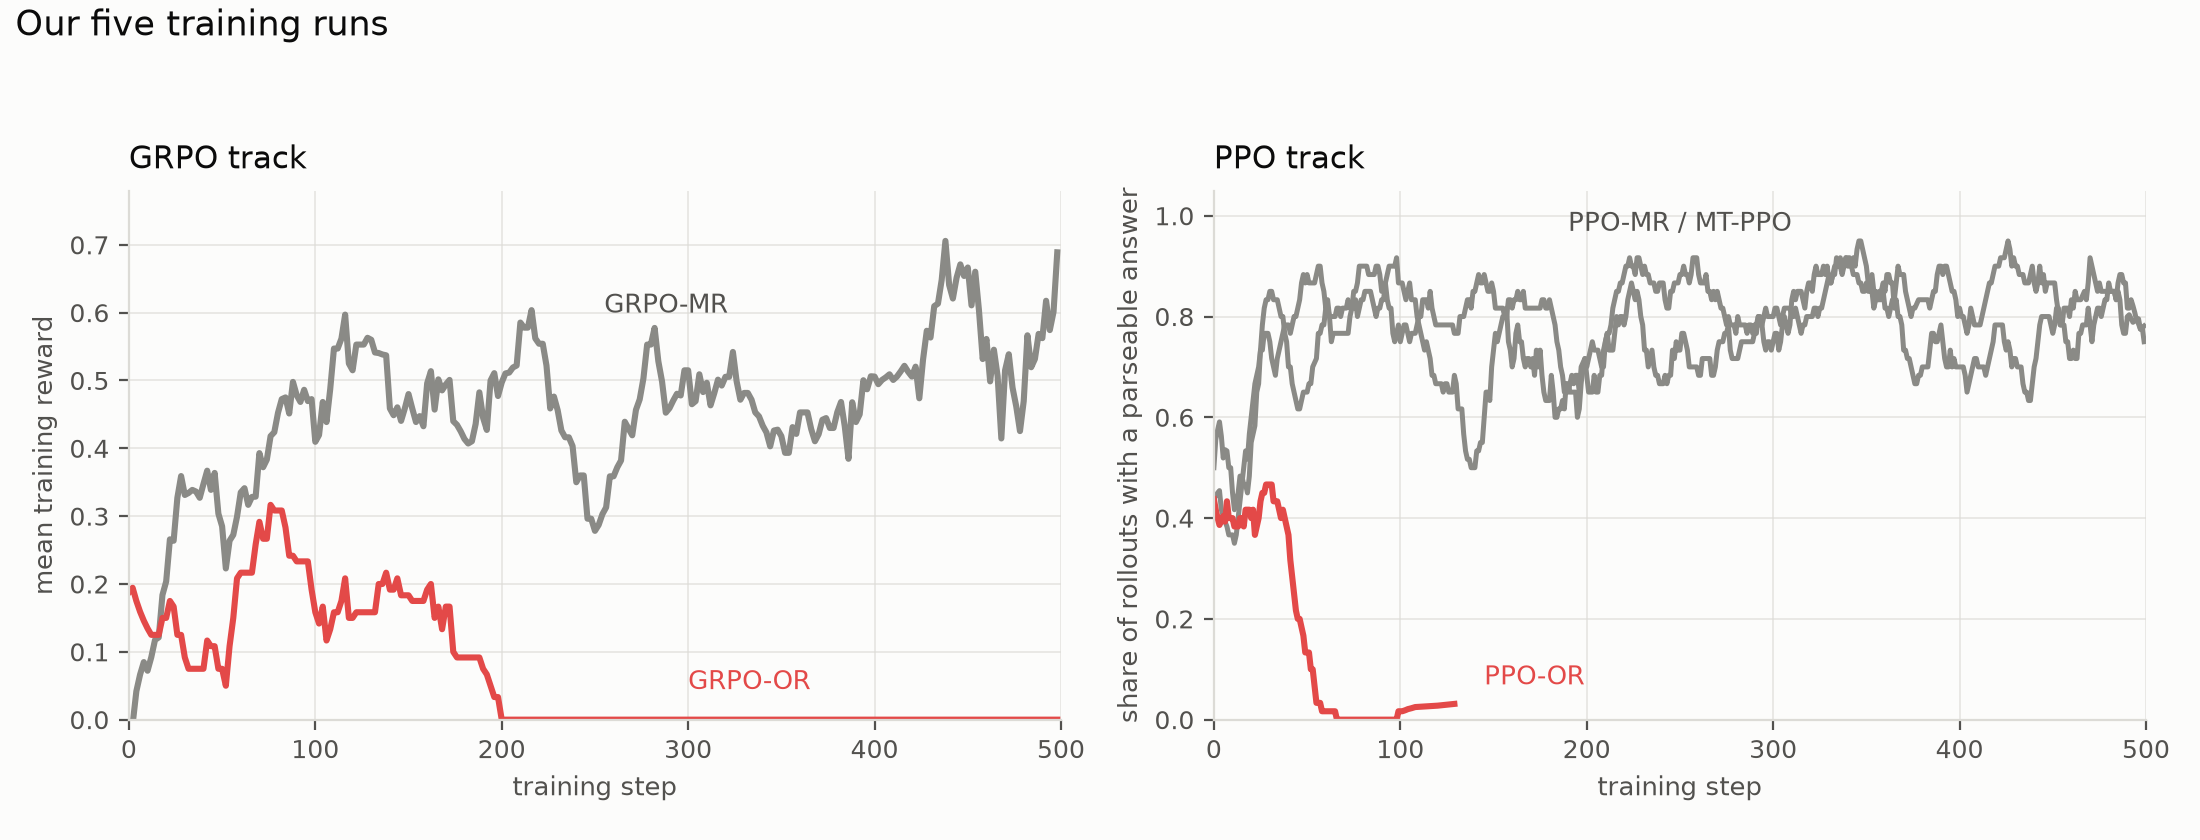
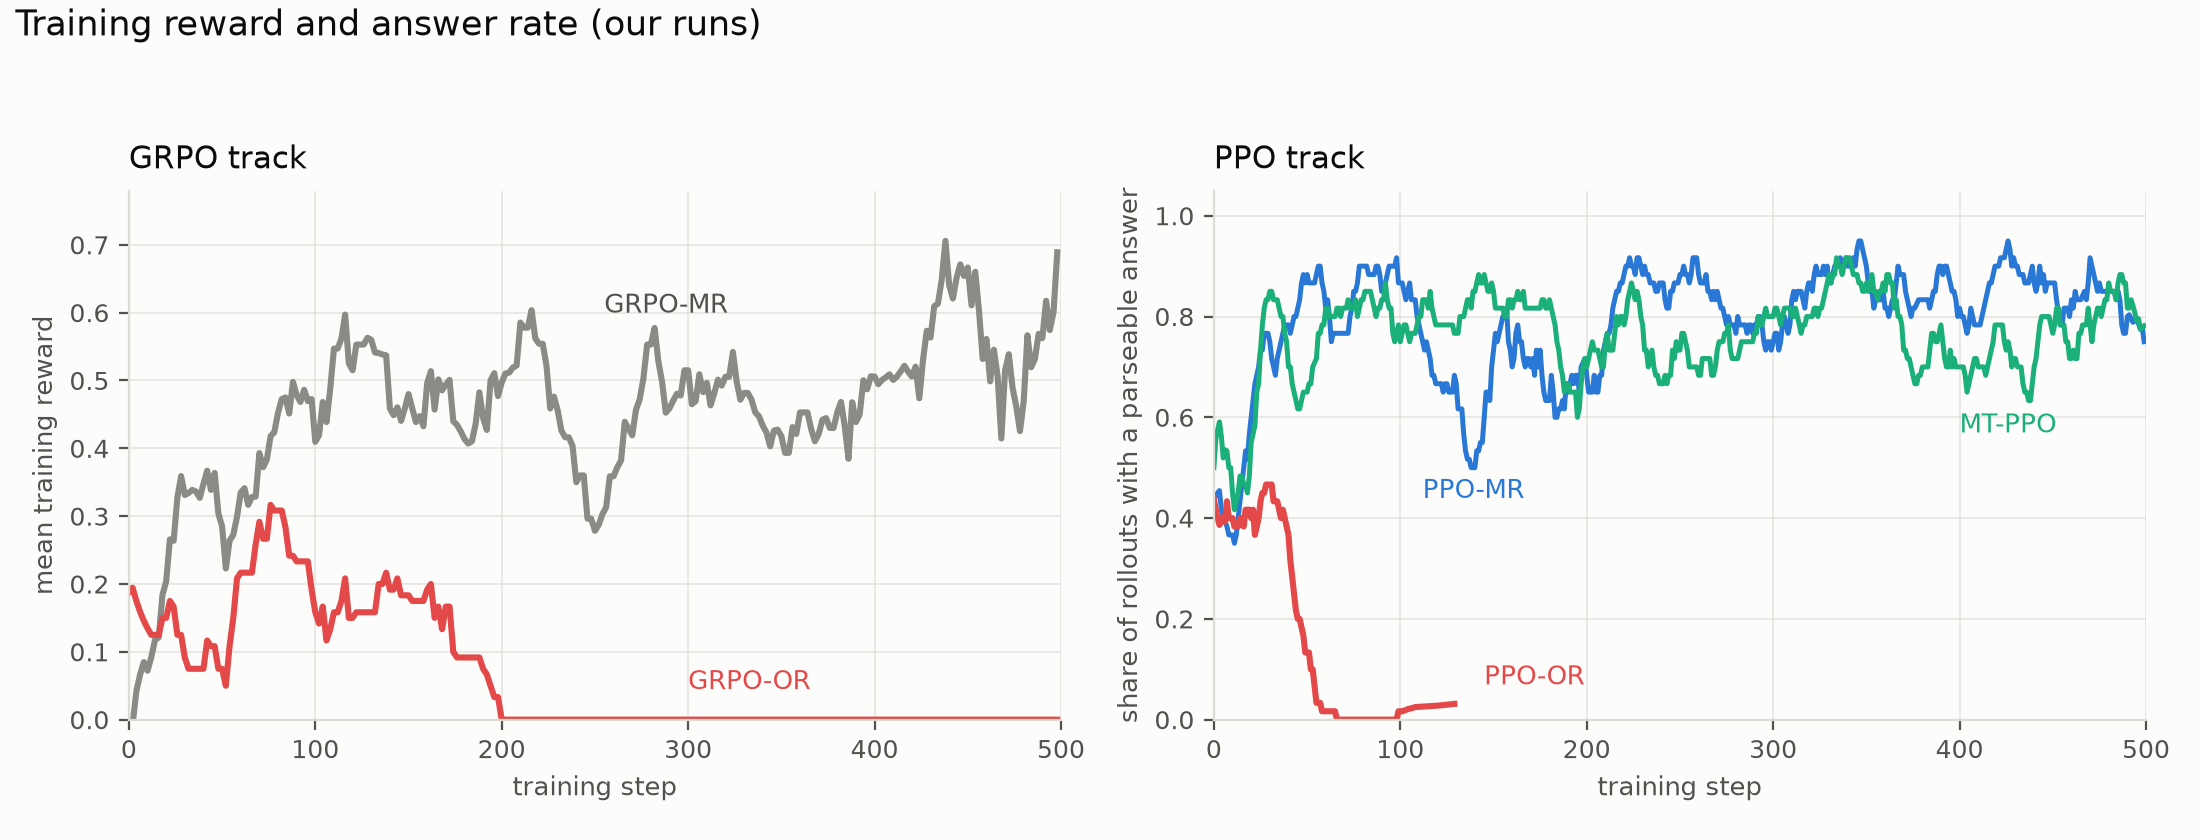
Plain descriptive chart titles; scale explanation reframed as hypothesis

Changed region(s): [[0.5564, 0.2786, 0.9891, 0.65], [0.0, 0.0, 0.34, 0.0619], [0.7109, 0.2476, 0.8036, 0.2786]]

diff --git a/scripts/plot_phase7c.py b/scripts/plot_phase7c.py
@@ -209,7 +209,7 @@ def plot_collapses(curves: dict, out: Path) -> None:
     g_ax.text(300, 0.045, "GRPO-OR", fontsize=9.5, color=LOSS)
     g_ax.text(255, 0.60, "GRPO-MR", fontsize=9.5, color=INK_SOFT)
 
-    for arm, colour in (("ppo_mr_paper", DEAD), ("mt_ppo", DEAD), ("ppo", LOSS)):
+    for arm, colour in (("ppo_mr_paper", OURS), ("mt_ppo", GAIN), ("ppo", LOSS)):
         series = curves[arm]
         p_ax.plot(
             series["step"],
@@ -221,13 +221,21 @@ def plot_collapses(curves: dict, out: Path) -> None:
     p_ax.set_ylabel("share of rollouts with a parseable answer", fontsize=9.5, color=INK_SOFT)
     p_ax.set_ylim(0, 1.05)
     p_ax.text(145, 0.07, "PPO-OR", fontsize=9.5, color=LOSS)
-    p_ax.text(190, 0.97, "PPO-MR / MT-PPO", fontsize=9.5, color=INK_SOFT)
+    p_ax.text(112, 0.44, "PPO-MR", fontsize=9.5, color=OURS)
+    p_ax.text(400, 0.57, "MT-PPO", fontsize=9.5, color=GAIN)
 
     for ax in (g_ax, p_ax):
         ax.set_xlabel("training step", fontsize=9.5, color=INK_SOFT)
         ax.set_xlim(0, 500)
 
-    fig.suptitle("Our five training runs", fontsize=12.5, color=INK, x=0.007, ha="left", y=0.99)
+    fig.suptitle(
+        "Training reward and answer rate (our runs)",
+        fontsize=12.5,
+        color=INK,
+        x=0.007,
+        ha="left",
+        y=0.99,
+    )
     fig.tight_layout(rect=(0, 0.01, 1, 0.94))
     fig.savefig(out, dpi=200, facecolor=SURFACE)
     plt.close(fig)
@@ -264,7 +272,7 @@ def _ppo_curve(curves: dict, key: str, title: str):
 def plot_searches(curves: dict, out: Path) -> None:
     """Searches per episode: the arm with no search penalty is not the one that runs away."""
     fig, ax = _ppo_curve(
-        curves, "mean_tool_turns", "The unpenalised arm is not the one that searches to the cap"
+        curves, "mean_tool_turns", "Searches per episode during training (our runs)"
     )
     ax.set_ylabel("searches per episode", fontsize=9, color=INK_SOFT)
     ax.set_ylim(0, 4.4)

diff --git a/README.md b/README.md
@@ -185,10 +185,14 @@ arm (0.528). Watch only the retrieval metric and the most broken arm looks like 
 by construction; after step 184 its gradient is exactly 0.0000 and never recovers. `GRPO-MR` is the
 same arm plus the retrieval bonus, and it scores 0.295.
 
-Why does scale decide it? Collapse needs a batch with zero correct answers. If one rollout is
-right with probability `p` and a batch holds `N` rollouts, that chance
-is `(1−p)^N` — a smaller model shrinks `p`, a smaller batch shrinks `N`, and ours are much smaller
-on both counts.
+Why did ours collapse when the paper's didn't? We haven't isolated that, so here is the hypothesis
+rather than a claim. Collapse needs a batch with zero correct answers: if one rollout is right
+with probability `p` and a batch holds `N` rollouts, that chance is `(1−p)^N`. Scale is the
+suspect — a smaller model shrinks `p`, a smaller batch shrinks `N`, and ours are much smaller on
+both counts (our weaker BM25 retrieval plausibly shrinks `p` further). But we never ran the
+paper's scale, so this is an inference from the mechanism, not a measured result. The test we'd
+run: retrain `GRPO-OR` with a larger rollout group — raising `N` alone — and see whether the
+collapse disappears.
 
 ### A search penalty is not what prevents runaway searching
 
